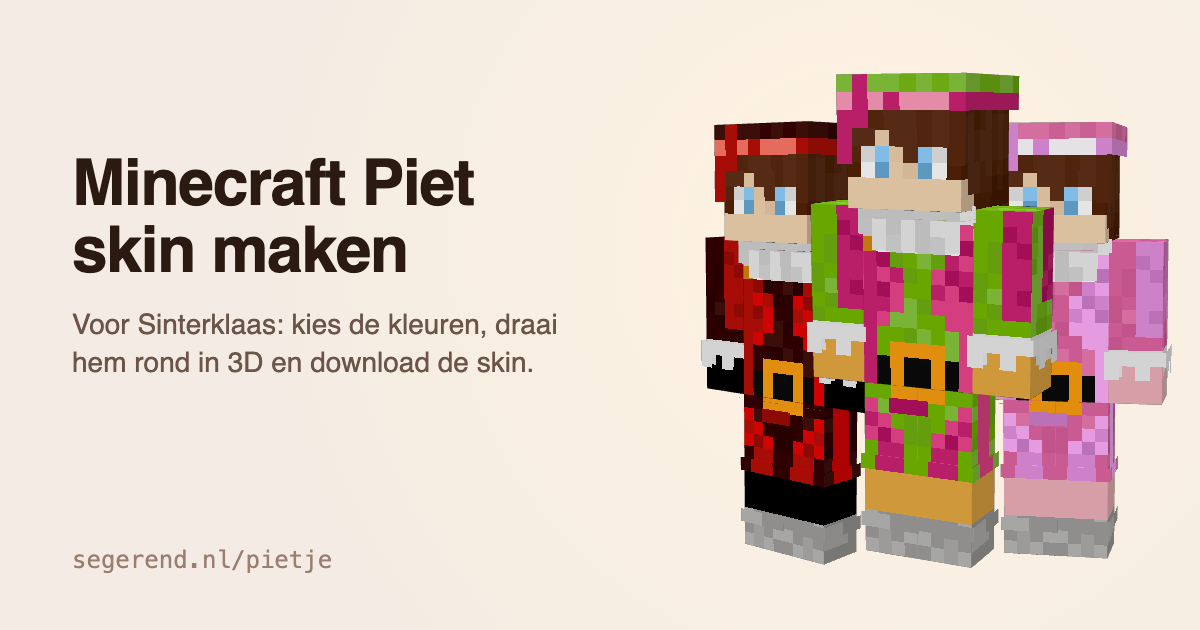
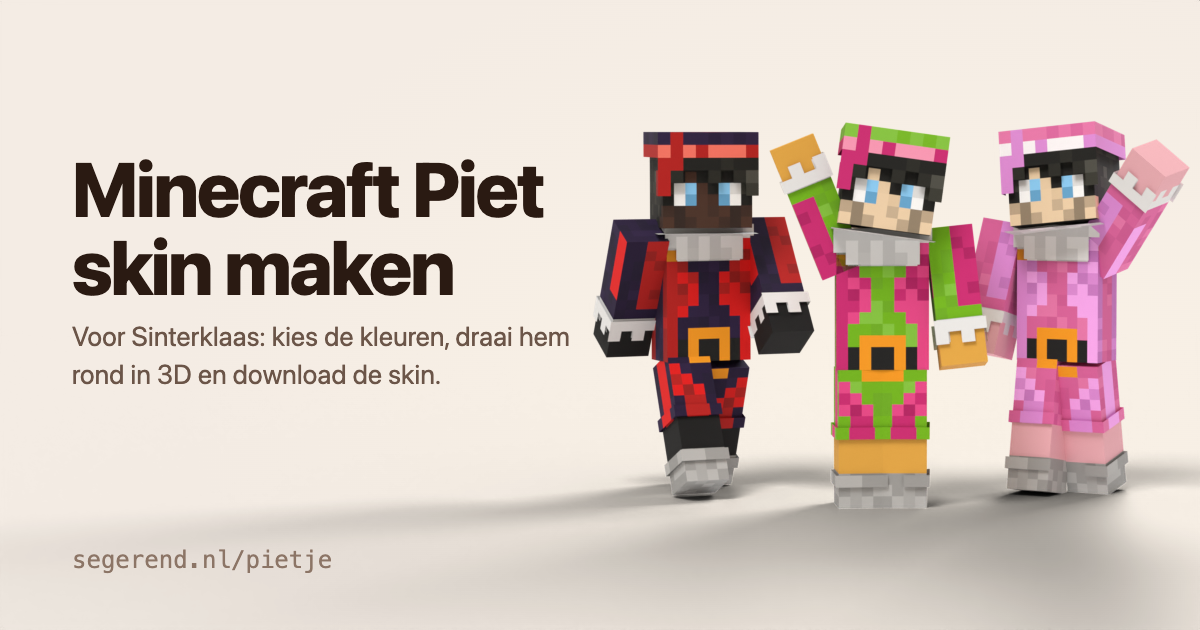
feat: updates

diff --git a/index.html b/index.html
@@ -56,8 +56,23 @@
   /* the picture of a Piet: what's there before the script draws, or without it (and for search engines) */
   .poster { position: absolute; inset: 0; width: auto; height: 100%; margin: auto; }
   .model { position: absolute; inset: 0; width: 100%; height: 100%; }  /* drawn with WebGL, see pietje.mjs */
-  .hint { position: absolute; bottom: .6rem; margin: 0; color: var(--muted); font-size: 12px; }
+  .hint { position: absolute; bottom: .75rem; margin: 0; color: var(--muted); font-size: 12px; line-height: 26px; }  /* as tall as the pause button next to it, so their words line up */
   .flat { cursor: default; } .flat .hint { display: none; }  /* no WebGL: a flat front view that doesn't turn */
+  /* stops (and restarts) the turning by itself, in the preview's top right corner; not there when
+     he doesn't turn by himself anyway: no WebGL, or less motion asked for */
+  .stage { position: relative; }
+  /* a small button as the others (Kies skin), level with the hint; filled, so it reads on the preview */
+  .button.pause { position: absolute; right: .75rem; bottom: .75rem; background: var(--bg); }  /* level with the hint */
+  /* its icons are Lucide's, as the other buttons': refresh-cw-off to stop the turning, refresh-cw to start it */
+  .pause:not(.paused) .go, .pause.paused .stop { display: none; }
+  .stage:has(.flat) .pause { display: none; }
+  @media (prefers-reduced-motion: reduce) { .pause { display: none; } }
+  /* side by side: a little taller than on its own (32rem), so less of the column next to it is
+     left empty below it, but not all of it: Pietje would get too big. No taller than the window,
+     so all of him stays in view, and 26rem at least */
+  @media (width > 44rem) {
+    .viewer { height: min(32rem, max(26rem, 100svh - 7rem)); }
+  }
   /* on a phone, where the colors come under the preview: smaller, so the palette fits on the
      screen with it and each color you pick shows on Pietje right away */
   @media (max-width: 44rem) {
@@ -86,6 +101,7 @@
   }
   .extra { display: grid; gap: .15rem; margin: .15rem 0 0; padding: 0; border: 0; }  /* the colors' list goes on: spaced as they are */
   .extra label { display: flex; align-items: center; gap: .5rem; cursor: pointer; }
+  label { -webkit-user-select: none; user-select: none; }  /* clicking twice toggles, it doesn't select the text */
   .extra input { width: 1.1rem; height: 1.1rem; margin: 0; accent-color: var(--link); }
   /* your own head: a skin file from the button, or dropped on the preview */
   /* a row as the ones below it: what it is on the left (your face, once it's there), the buttons on
@@ -135,9 +151,9 @@
   }
   .drop b { font-weight: inherit; }
   .dragging .hint, .took .hint, .refused .hint { visibility: hidden; }
-  .soot, .lips, .arms { display: flex; align-items: center; justify-content: space-between; gap: .5rem; min-height: 2rem; }
+  .soot, .lips, .arms, .belt { display: flex; align-items: center; justify-content: space-between; gap: .5rem; min-height: 2rem; }
   /* the extras as rows of the same list as the colors: the same line under each */
-  .own, .soot, .lips, .arms { box-sizing: content-box; padding: .3rem 0; border-bottom: 1px solid var(--line); }  /* 2rem inside, as a color's swatch */
+  .own, .soot, .lips, .arms, .belt { box-sizing: content-box; padding: .3rem 0; border-bottom: 1px solid var(--line); }  /* 2rem inside, as a color's swatch */
   .button.small { padding-block: .15rem; font-size: 13px; }
   .soot:not(:has(:checked)) .button { display: none; }  /* only while there are roetvegen */
   .lips:not(:has(:checked)) input[type=color] { display: none; }  /* only while there's lipstick */
@@ -179,11 +195,15 @@
 <p class="intro">Kies de kleuren van je Piet voor Sinterklaas, draai hem rond en download de skin voor Minecraft.</p>
 
 <div class="maker" data-clicks>
+  <div class="stage">
   <div class="viewer" id="viewer" tabindex="0" role="img" aria-label="3D-voorbeeld van je Piet. Sleep, of gebruik de pijltjestoetsen, om hem te draaien; klik en scroll, knijp, of gebruik plus en min, om te zoomen.">
     <img class="poster" id="poster" src="piet.png" draggable="false" width="560" height="832" alt="Een Minecraft Piet skin: een Piet in een groen pak met roze, een witte kraag en een gouden maillot.">
     <canvas class="model" id="model"></canvas>
     <p class="hint" aria-hidden="true">sleep om te draaien</p>
     <div class="drop" id="drop" aria-hidden="true"><div class="glow"></div><svg class="frame"><rect/></svg><span><svg viewBox="0 0 24 24"><rect x="3" y="3" width="18" height="18" rx="2"/><path d="M8 10h2v2H8zM14 10h2v2h-2zM10 16h4"/></svg><b>Sleep je skin hierheen</b></span></div>
+  </div>
+  <!-- outside the viewer: it's an image to screen readers, which would hide a button in it -->
+  <button type="button" class="button small pause" id="pause" title="Stoppen met draaien"><svg class="stop" viewBox="0 0 24 24" aria-hidden="true"><path d="M21 8L18.74 5.74A9.75 9.75 0 0 0 12 3C11 3 10.03 3.16 9.13 3.47"/><path d="M8 16H3v5"/><path d="M3 12C3 9.51 4 7.26 5.64 5.64"/><path d="m3 16 2.26 2.26A9.75 9.75 0 0 0 12 21c2.49 0 4.74-1 6.36-2.64"/><path d="M21 12c0 1-.16 1.97-.47 2.87"/><path d="M21 3v5h-5"/><path d="M22 22 2 2"/></svg><svg class="go" viewBox="0 0 24 24" aria-hidden="true"><path d="M3 12a9 9 0 0 1 9-9 9.75 9.75 0 0 1 6.74 2.74L21 8"/><path d="M21 3v5h-5"/><path d="M21 12a9 9 0 0 1-9 9 9.75 9.75 0 0 1-6.74-2.74L3 16"/><path d="M8 16H3v5"/></svg><span>Pauze</span></button>
   </div>
 
   <form id="wardrobe">
@@ -221,8 +241,11 @@
         <label><input type="checkbox" id="lippenstift"> Lippenstift</label>
         <input type="color" id="color_lips" value="#a3294f" aria-label="Kleur van de lippenstift">
       </div>
+      <div class="belt">
+        <label><input type="checkbox" id="riem" checked> Riem</label>
+      </div>
       <div class="arms">
-        <label><input type="checkbox" id="slank"> Slanke armen (Alex)</label>
+        <label><input type="checkbox" id="smal"> Smalle armen (Alex)</label>
       </div>
     </fieldset>
     <div class="actions">
@@ -241,13 +264,13 @@
 <ol>
   <li>Download de skin hierboven (pietje.png).</li>
   <li>Open de Minecraft Launcher, ga naar <b>Skins</b> en kies <b>Nieuwe skin</b>.</li>
-  <li>Kies het model <b>Klassiek</b> (armen van 4 pixels, zoals bij Steve), of <b>Slank</b> als je <b>Slanke armen</b> aan hebt gezet, en selecteer pietje.png.</li>
+  <li>Kies het model <b>Klassiek</b> (armen van 4 pixels, zoals bij Steve), of <b>Smal</b> als je <b>Smalle armen</b> aan hebt gezet, en selecteer pietje.png.</li>
 </ol>
 <h3>Bedrock Edition</h3>
 <ol>
   <li>Ga naar de <b>Kleedkamer</b> en open de klassieke skins.</li>
   <li>Kies onder <b>Eigen</b> de lege skin, dan <b>Kies nieuwe skin</b>, en selecteer pietje.png.</li>
-  <li>Kies het klassieke model met de brede armen, zoals bij Steve, of het model met de slanke armen als je <b>Slanke armen</b> aan hebt gezet.</li>
+  <li>Kies <b>Brede armen</b>, zoals bij Steve, of <b>Smalle armen</b> als je die hier aan hebt gezet.</li>
 </ol>
 <h3>Kan ik mijn Piet delen?</h3>
 <p>Ja: de kleuren staan in de link. Met <b>Link kopiëren</b> kan iemand anders precies jouw Piet openen.</p>

diff --git a/og/card.html b/og/card.html
@@ -1,0 +1,24 @@
+<!doctype html>
+<!-- card.html -- the share card (../og.png, 1200×630): three posed Pieten rendered by Blender
+     (render.py, into pieten.png) with the name and what it does next to them. Not published; to make
+     og.png again, from this folder:
+       blender -b -P render.py -- . pieten.png
+       python3 -m http.server 8131 &
+       "/Applications/Google Chrome.app/Contents/MacOS/Google Chrome" --headless --hide-scrollbars \
+         --window-size=1200,630 --virtual-time-budget=4000 --screenshot=../og.png http://localhost:8131/card.html -->
+<html lang="nl">
+<meta charset="utf-8">
+<title>Pietje share card</title>
+<style>
+  :root { color-scheme: light; --font-ui: ui-sans-serif, -apple-system, BlinkMacSystemFont, "Segoe UI", sans-serif; }
+  html, body { margin: 0; width: 1200px; height: 630px; overflow: hidden; color: #2a1a12; font-family: var(--font-ui);
+               background: radial-gradient(ellipse 60% 70% at 75% 60%, #faf2e6, #f4ece4); }
+  img { position: absolute; inset: 0; }
+  h1 { position: absolute; left: 72px; top: 150px; margin: 0; width: 520px; font-size: 76px; font-weight: 800; line-height: 1.02; letter-spacing: -.025em; }
+  p { position: absolute; left: 72px; top: 318px; margin: 0; width: 500px; font-size: 27px; line-height: 1.4; color: #6b5548; }
+  .url { top: auto; bottom: 56px; font: 24px ui-monospace, Menlo, monospace; color: #8c7566; }
+</style>
+<img src="pieten.png" width="1200" height="630" alt="">
+<h1>Minecraft Piet skin maken</h1>
+<p>Voor Sinterklaas: kies de kleuren, draai hem rond in 3D en download de skin.</p>
+<p class="url">segerend.nl/pietje</p>

diff --git a/og/render.py b/og/render.py
@@ -1,0 +1,155 @@
+# Pietje's share card picture: three posed Minecraft Pieten, rendered by Blender on a transparent
+# background with their shadows, for card.html to put the words next to (see there). The skins are
+# the app's own examples, downloaded from it: groen.png (the plain link), rood.png and roze.png (the
+# Rood and Roze buttons, with roetvegen). From this folder:
+#   blender -b -P render.py -- . pieten.png
+# Every part is a box in skin pixels with Minecraft's 64x64 layout on its faces; the outer layer
+# (hat, sleeves) a little bigger, as in the game. Pixels stay square: the texture is sampled Closest.
+import math
+import os
+import sys
+
+import bpy
+from mathutils import Vector
+
+# absolute: Blender reads a relative path as relative to the .blend file, and there is none
+skins, out = map(os.path.abspath, sys.argv[sys.argv.index("--") + 1:][:2])
+
+bpy.ops.wm.read_factory_settings(use_empty=True)
+scene = bpy.context.scene
+
+# Minecraft's skin layout: per part its size (w, h, d), inner and outer layer origin on the skin,
+# where it hangs from (the pivot) and how much bigger the outer layer is
+PARTS = {
+    "head": ((8, 8, 8), (0, 0), (32, 0), (0, 0, 24), (0, 0, 4), 0.5),
+    "body": ((8, 12, 4), (16, 16), (16, 32), (0, 0, 24), (0, 0, -6), 0.25),
+    "arm_r": ((4, 12, 4), (40, 16), (40, 32), (-5, 0, 22), (-1, 0, -4), 0.25),
+    "arm_l": ((4, 12, 4), (32, 48), (48, 48), (5, 0, 22), (1, 0, -4), 0.25),
+    "leg_r": ((4, 12, 4), (0, 16), (0, 32), (-1.95, 0, 12), (0, 0, -6), 0.25),
+    "leg_l": ((4, 12, 4), (16, 48), (0, 48), (1.95, 0, 12), (0, 0, -6), 0.25),
+}
+
+
+def box(name, size, uv, grow, center, mat):
+    """A box facing -Y (the camera), each face's quad in the skin's pixel rectangle for it."""
+    w, h, d = size
+    u, v = uv
+    x0, x1 = center[0] - w / 2 - grow, center[0] + w / 2 + grow
+    y0, y1 = center[1] - d / 2 - grow, center[1] + d / 2 + grow
+    z0, z1 = center[2] - h / 2 - grow, center[2] + h / 2 + grow
+    # corners top-left, top-right, bottom-right, bottom-left as seen from outside; skin rect (px)
+    faces = [
+        ([(x0, y1, z1), (x1, y1, z1), (x1, y0, z1), (x0, y0, z1)], (u + d, v, w, d)),  # top
+        ([(x0, y0, z0), (x1, y0, z0), (x1, y1, z0), (x0, y1, z0)], (u + d + w, v, w, d)),  # bottom
+        ([(x0, y1, z1), (x0, y0, z1), (x0, y0, z0), (x0, y1, z0)], (u, v + d, d, h)),  # right (-X)
+        ([(x0, y0, z1), (x1, y0, z1), (x1, y0, z0), (x0, y0, z0)], (u + d, v + d, w, h)),  # front (-Y)
+        ([(x1, y0, z1), (x1, y1, z1), (x1, y1, z0), (x1, y0, z0)], (u + d + w, v + d, d, h)),  # left (+X)
+        ([(x1, y1, z1), (x0, y1, z1), (x0, y1, z0), (x1, y1, z0)], (u + 2 * d + w, v + d, w, h)),  # back
+    ]
+    verts, polys, uvs = [], [], []
+    for corners, (ru, rv, rw, rh) in faces:
+        polys.append(tuple(range(len(verts), len(verts) + 4)))
+        verts += corners
+        for pu, pv in ((ru, rv), (ru + rw, rv), (ru + rw, rv + rh), (ru, rv + rh)):
+            uvs.append((pu / 64, 1 - pv / 64))
+    mesh = bpy.data.meshes.new(name)
+    mesh.from_pydata(verts, [], polys)
+    layer = mesh.uv_layers.new()
+    for i, loop in enumerate(mesh.loops):
+        layer.data[i].uv = uvs[loop.vertex_index]
+    mesh.materials.append(mat)
+    return mesh
+
+
+def skin_material(path):
+    mat = bpy.data.materials.new(path)
+    mat.use_nodes = True
+    nodes, links = mat.node_tree.nodes, mat.node_tree.links
+    bsdf = nodes["Principled BSDF"]
+    tex = nodes.new("ShaderNodeTexImage")
+    tex.image = bpy.data.images.load(path)
+    tex.interpolation = "Closest"
+    links.new(tex.outputs["Color"], bsdf.inputs["Base Color"])
+    links.new(tex.outputs["Alpha"], bsdf.inputs["Alpha"])
+    bsdf.inputs["Roughness"].default_value = 0.85
+    return mat
+
+
+def piet(name, skin, location, turn, pose):
+    """A Piet at LOCATION, turned TURN degrees, each part rotated as POSE says (degrees x, y, z)."""
+    mat = skin_material(f"{skins}/{skin}.png")
+    root = bpy.data.objects.new(name, None)
+    scene.collection.objects.link(root)
+    for part, (size, inner, outer, pivot, offset, grow) in PARTS.items():
+        obj = bpy.data.objects.new(f"{name}.{part}", None)
+        obj.location = pivot
+        obj.rotation_euler = [math.radians(a) for a in pose.get(part, (0, 0, 0))]
+        obj.parent = root
+        scene.collection.objects.link(obj)
+        for layer, uv, g in (("inner", inner, 0), ("outer", outer, grow)):
+            o = bpy.data.objects.new(f"{name}.{part}.{layer}", box(f"{name}.{part}.{layer}", size, uv, g, offset, mat))
+            o.parent = obj
+            scene.collection.objects.link(o)
+    root.location = location
+    root.rotation_euler = (0, 0, math.radians(turn))
+    return root
+
+
+# Poses, in degrees about x (+: backward), y (+: the right arm outward, the left arm inward), z
+piet("rood", "rood", (-16.5, 7, 0), 26, {  # striding in from the left
+    "head": (0, 0, -12), "arm_r": (28, 0, 0), "arm_l": (-34, 0, 0), "leg_r": (-24, 0, 0), "leg_l": (22, 0, 0)})
+piet("groen", "groen", (0, -2, 0), 4, {  # waving
+    "head": (-4, 8, 0), "arm_r": (0, 158, 0), "arm_l": (-10, -6, 0), "leg_r": (0, 0, 4), "leg_l": (0, 0, -4)})
+piet("roze", "roze", (16.5, 7, 0), -28, {  # cheering
+    "head": (-8, -6, 8), "arm_r": (-12, 8, 0), "arm_l": (-14, -142, 0), "leg_r": (-10, 0, 0), "leg_l": (12, 0, 0)})
+
+# the ground only catches shadows: the card's background shows through it
+bpy.ops.mesh.primitive_plane_add(size=400)
+bpy.context.object.is_shadow_catcher = True
+
+# a soft key from the front left, a cooler rim from behind, the warm card color as fill: together
+# about as bright as the skin itself on the faces turned to the camera, so bright suits keep their shading
+bpy.ops.object.light_add(type="SUN", rotation=(math.radians(32), 0, math.radians(-28)))
+bpy.context.object.data.energy = 2.0
+bpy.context.object.data.angle = math.radians(24)
+bpy.ops.object.light_add(type="AREA", location=(30, 45, 50))
+rim = bpy.context.object
+rim.data.energy = 45000
+rim.data.size = 30
+rim.data.color = (0.9, 0.95, 1.0)
+rim.visible_shadow = False  # a rim only: its shadow would fall toward the camera
+rim.rotation_euler = (Vector((0, 0, 16)) - rim.location).to_track_quat("-Z", "Y").to_euler()
+world = bpy.data.worlds.new("card")
+world.use_nodes = True
+world.node_tree.nodes["Background"].inputs["Color"].default_value = (0.93, 0.86, 0.77, 1)
+world.node_tree.nodes["Background"].inputs["Strength"].default_value = 0.55
+scene.world = world
+
+# a long lens, a little from below the heads, so they stand tall; the group on the right of the card
+cam = bpy.data.objects.new("camera", bpy.data.cameras.new("camera"))
+scene.collection.objects.link(cam)
+cam.data.lens = 85
+cam.data.shift_x = -0.235
+cam.location = (5, -248, 33)
+cam.rotation_euler = (Vector((0, 0, 16.5)) - cam.location).to_track_quat("-Z", "Y").to_euler()
+scene.camera = cam
+
+scene.render.engine = "CYCLES"
+scene.cycles.samples = 256
+scene.cycles.use_denoising = True
+prefs = bpy.context.preferences.addons["cycles"].preferences
+try:
+    prefs.compute_device_type = "METAL"
+    prefs.get_devices()
+    for d in prefs.devices:
+        d.use = True
+    scene.cycles.device = "GPU"
+except TypeError:
+    pass
+scene.view_settings.view_transform = "Standard"  # the skins' own colors, not a film look
+scene.render.film_transparent = True
+scene.render.resolution_x, scene.render.resolution_y = 1200, 630
+scene.render.resolution_percentage = 100
+scene.render.image_settings.color_mode = "RGBA"
+scene.render.filepath = out
+bpy.ops.render.render(write_still=True)
